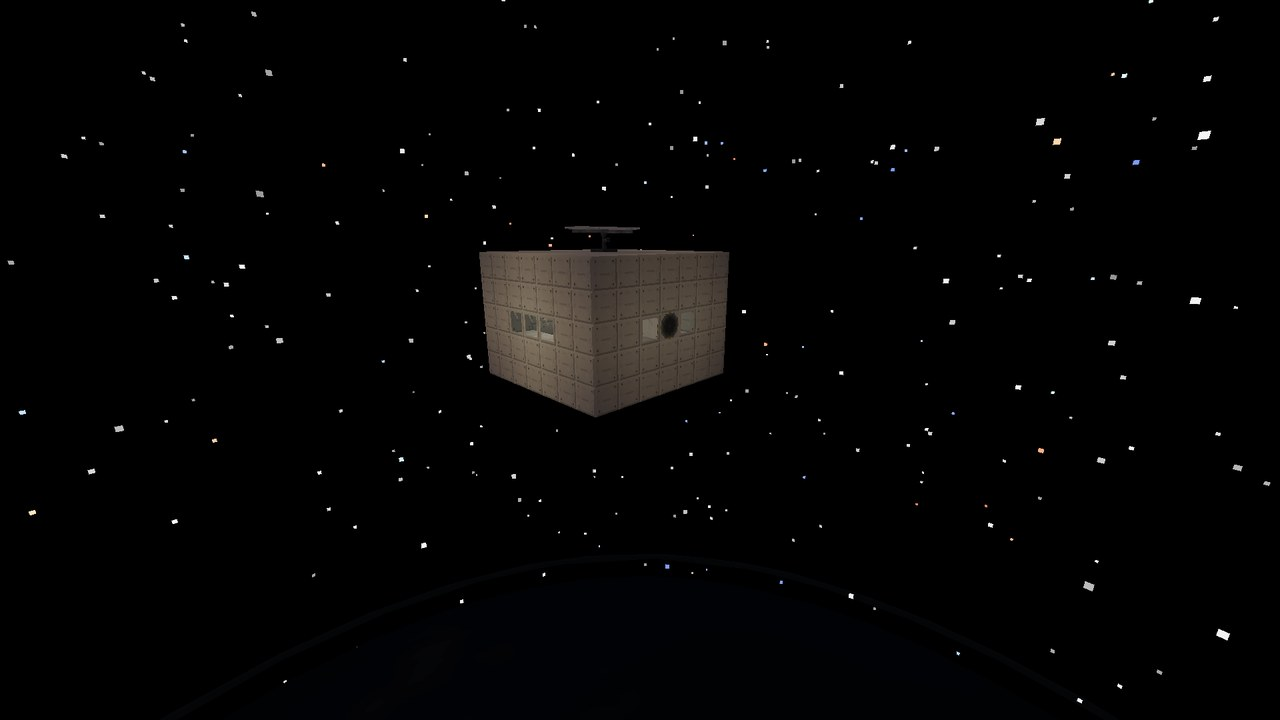
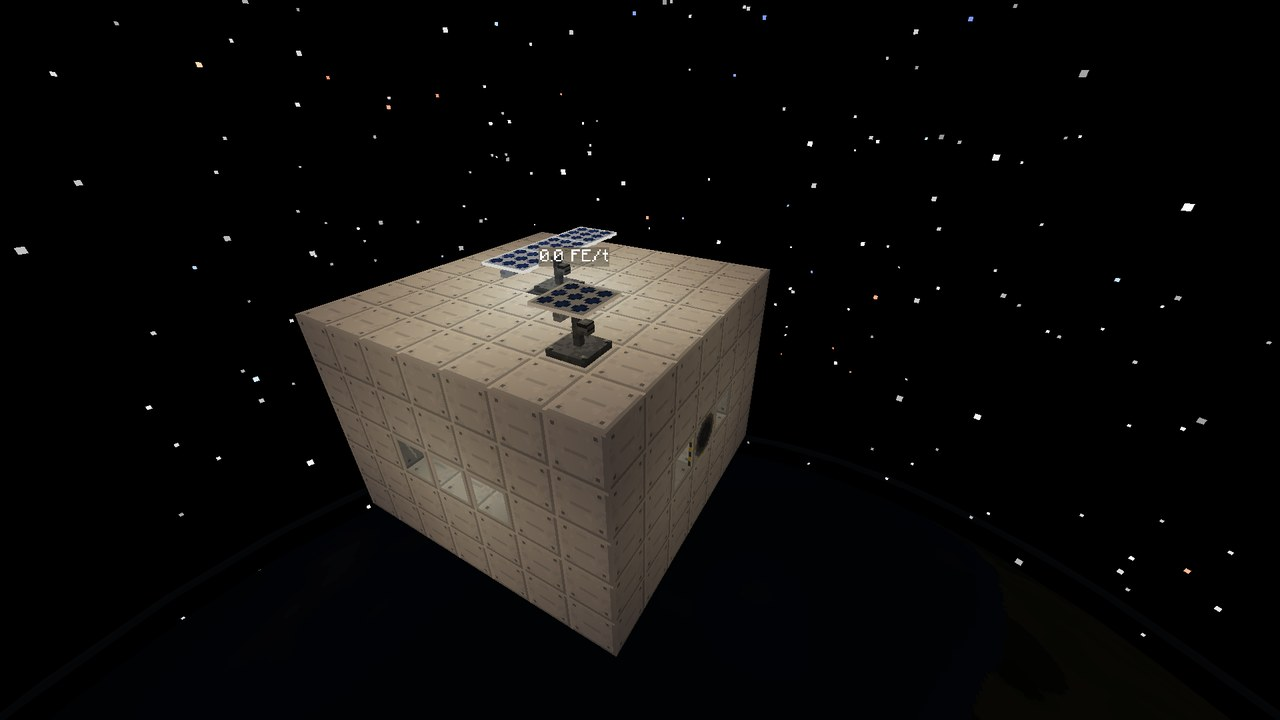
Rocketry: one orbit sunlight modifier for the shadow, habitat roof battery and cable, steadier docking test
- Orbit shadow reaches every solar panel through a single Environment sunlight modifier (QA-16)
- Habitat kit: battery bank in the roof under the solar array, a copper cable end hanging from the ceiling into the room; pressurised cabin shown on the suit HUD
- Docking test lowers the rocket onto an upward port in its own force-loaded chunk
- Showcase: orbit night and day shots with a solar panel showing 0 and 20 FE/t

diff --git a/src/testmod/java/com/pizzaparker07/spacebreaker/testmod/rocketry/RocketryGameTests.java b/src/testmod/java/com/pizzaparker07/spacebreaker/testmod/rocketry/RocketryGameTests.java
@@ -844,6 +844,10 @@ public final class RocketryGameTests {
                 .is(RocketryModule.STATION_BUNK.get()), "a bunk inside");
         helper.assertTrue(level.getBlockState(centre.above(com.pizzaparker07.spacebreaker.content.rocketry.station.HabitatKitItem.HEIGHT))
                 .is(com.pizzaparker07.spacebreaker.content.machines.MachinesModule.SOLAR_ARRAY.get()), "a solar array on the roof");
+        helper.assertTrue(level.getBlockState(com.pizzaparker07.spacebreaker.content.rocketry.station.HabitatKitItem.battery(centre))
+                .is(com.pizzaparker07.spacebreaker.content.machines.MachinesModule.BATTERY_BANK.block().get()), "a battery bank under the array, for the night");
+        helper.assertTrue(level.getBlockState(com.pizzaparker07.spacebreaker.content.rocketry.station.HabitatKitItem.battery(centre).below())
+                .is(com.pizzaparker07.spacebreaker.content.machines.MachinesModule.COPPER_CABLE.get()), "a cable end under the battery");
         // the distributor finds a closed room: hull, windows, port and the shut airlock keep the air in
         helper.succeedWhen(() -> {
             var be = (com.pizzaparker07.spacebreaker.content.suit.block.OxygenDistributorBlockEntity) level.getBlockEntity(dist);
@@ -900,35 +904,49 @@ public final class RocketryGameTests {
     }
 
     // own batch: the rocket flies in from outside its port, and a neighbouring test clearing its area must not catch it
-    @GameTest(template = EMPTY, timeoutTicks = 300, batch = "rocketry_docking")
+    @GameTest(template = EMPTY, timeoutTicks = 600, batch = "rocketry_docking")
     public static void dockingApproach(GameTestHelper helper) {
         var level = helper.getLevel();
-        BlockPos port = helper.absolutePos(new BlockPos(1, 30, 2));
+        // a sideways port puts the capsule level with the hatch
+        BlockPos side = helper.absolutePos(new BlockPos(1, 30, 2));
+        net.minecraft.world.phys.Vec3 beside = RocketEntity.dockPoint(side, Direction.EAST, 20, 1.5);
+        helper.assertTrue(beside.y + 20 > side.getY() && beside.y < side.getY() && beside.x > side.getX() + 1, "beside the hatch, capsule level with it");
+        // the approach itself onto an upward port, flying straight down its column (stays in the test's chunk)
+        BlockPos port = helper.absolutePos(new BlockPos(2, 1, 2));
         level.setBlock(port, RocketryModule.DOCKING_PORT.get().defaultBlockState()
-                .setValue(com.pizzaparker07.spacebreaker.content.rocketry.station.DockingPortBlock.FACING, Direction.EAST), 3);
+                .setValue(com.pizzaparker07.spacebreaker.content.rocketry.station.DockingPortBlock.FACING, Direction.UP), 3);
         var ports = com.pizzaparker07.spacebreaker.content.rocketry.station.DockingPorts.get(level);
-        helper.assertTrue(ports.nearest(port.getCenter(), p -> true).filter(p -> p.pos().equals(port) && p.facing() == Direction.EAST).isPresent(),
+        helper.assertTrue(ports.nearest(port.getCenter(), p -> true).filter(p -> p.pos().equals(port) && p.facing() == Direction.UP).isPresent(),
                 "the port registers itself for arriving rockets");
-        RocketEntity rocket = RocketEntity.create(level, RocketryModule.MOON_ROCKET, port.getCenter(), 0F);
+        // keep the chunk ticking and let the rocket settle in before the approach starts
+        net.minecraft.world.level.ChunkPos chunk = new net.minecraft.world.level.ChunkPos(port);
+        level.setChunkForced(chunk.x, chunk.z, true);
+        RocketEntity rocket = RocketEntity.create(level, RocketryModule.MOON_ROCKET, port.getCenter().add(0, 1, 0), 0F);
         level.addFreshEntity(rocket);
         rocket.stageScene(FlightState.ORBIT, 0, 0, false);
-        rocket.approachPort(port, Direction.EAST, 6);
-        net.minecraft.world.phys.Vec3 end = RocketEntity.dockPoint(port, Direction.EAST, rocket.getBbHeight(), rocket.getBbWidth());
-        helper.assertTrue(rocket.docking() && !rocket.docked() && !rocket.canDismount(), "still flying in: nobody steps out");
-        helper.assertTrue(rocket.position().distanceTo(end) > 5.9, "starts out from the port");
-        helper.assertTrue(end.y + rocket.getBbHeight() > port.getY() && end.y < port.getY(), "the capsule ends up level with the hatch");
-        double[] last = {rocket.position().distanceTo(end)};
+        net.minecraft.world.phys.Vec3 end = RocketEntity.dockPoint(port, Direction.UP, rocket.getBbHeight(), rocket.getBbWidth());
+        int[] ticks = {0};
+        double[] last = {Double.MAX_VALUE};
         helper.onEachTick(() -> {
-            double d = rocket.position().distanceTo(end);
-            helper.assertTrue(d <= last[0] + 1e-6, "always closing in");
-            last[0] = d;
+            if (++ticks[0] == 10) {
+                rocket.approachPort(port, Direction.UP, 6);
+                helper.assertTrue(rocket.docking() && !rocket.docked() && !rocket.canDismount(), "still flying in: nobody steps out");
+                helper.assertTrue(rocket.position().distanceTo(end) > 5.9, "starts out from the port");
+            }
+            if (ticks[0] > 10) {
+                double d = rocket.position().distanceTo(end);
+                helper.assertTrue(d <= last[0] + 1e-6, "always closing in");
+                last[0] = d;
+            }
         });
         helper.succeedWhen(() -> {
-            helper.assertFalse(rocket.docking(), "approach finished");
+            helper.assertTrue(ticks[0] > 10, "waiting for the rocket to settle");
+            helper.assertFalse(rocket.docking(), "approach finished: " + rocket.position().distanceTo(end));
             helper.assertTrue(rocket.position().distanceTo(end) < 0.01 && rocket.docked() && rocket.canDismount(), "latched on");
             level.removeBlock(port, false);
             helper.assertTrue(ports.nearest(port.getCenter(), p -> p.pos().equals(port)).isEmpty(), "a broken port leaves the list");
             rocket.discard();
+            level.setChunkForced(chunk.x, chunk.z, false);
         });
     }
 
@@ -1007,6 +1025,7 @@ public final class RocketryGameTests {
             BlockPos eyes = BlockPos.containing(crew.getEyePosition());
             helper.assertTrue(RocketEntity.cabinAir(level, eyes), "seated in the capsule, the crew breathes cabin air (no suit)");
             helper.assertTrue(com.pizzaparker07.spacebreaker.core.env.Environment.canBreathe(level, eyes), "the environment knows it");
+            helper.assertTrue(com.pizzaparker07.spacebreaker.content.suit.SuitEvents.pressurisedAt(crew), "the suit HUD sees a pressurised cabin");
             rocket.ejectPassengers();
             crew.moveTo(rocket.position().add(4, 0, 0));
             helper.runAfterDelay(1, () -> {

diff --git a/src/testmod/java/com/pizzaparker07/spacebreaker/testmod/showcase/RocketryScenario.java b/src/testmod/java/com/pizzaparker07/spacebreaker/testmod/showcase/RocketryScenario.java
@@ -137,6 +137,73 @@ final class RocketryScenario implements ShowcaseScenario {
         RocketryShowcaseClient.openMapWhenRiding = true;
     }
 
+    /**
+     * A habitat module with a solar panel on its roof, on the night or the day side of the orbit. After the panel
+     * has run a while its output is written to the log and shown over it, so the shadow can be checked without the
+     * picture.
+     */
+    private static void orbitPanelShot(ServerPlayer p, boolean night) {
+        clearScene(p);
+        ServerLevel orbit = p.server.getLevel(Location.EARTH_ORBIT.dimension());
+        BlockPos c = BlockPos.containing(night ? 200 : 260, RocketEntity.ORBIT_Y, 0);
+        net.minecraft.core.Direction east = net.minecraft.core.Direction.EAST;
+        com.pizzaparker07.spacebreaker.content.rocketry.station.HabitatKitItem.unfold(orbit, c, east);
+        orbit.setBlock(c.above(3), net.minecraft.world.level.block.Blocks.SEA_LANTERN.defaultBlockState(), 3);
+        BlockPos panel = c.offset(2, com.pizzaparker07.spacebreaker.content.rocketry.station.HabitatKitItem.HEIGHT, 2);
+        orbit.setBlock(panel, com.pizzaparker07.spacebreaker.content.machines.MachinesModule.SOLAR_PANEL.get().defaultBlockState(), 3);
+        // move the clock to the far side of the orbit (Earth's shadow) or to orbital noon
+        long now = p.server.overworld().getGameTime();
+        long orbitTicks = (long) com.pizzaparker07.spacebreaker.content.rocketry.nav.OrbitDaylight.ORBIT_TICKS;
+        long time = (now / orbitTicks + 1) * orbitTicks + (night ? orbitTicks / 2 : 0);
+        if (p.server.overworld().getLevelData() instanceof net.minecraft.world.level.storage.PrimaryLevelData data) {
+            data.setGameTime(time);
+        }
+        toDimension(p, Location.EARTH_ORBIT, c.getX() + 6.5, RocketEntity.ORBIT_Y + 8.5, 7.5, 150F, 30F);
+        later(p.server, 60, () -> {
+            double sun = com.pizzaparker07.spacebreaker.core.env.Environment.solarFactor(orbit, panel);
+            double out = orbit.getBlockEntity(panel) instanceof com.pizzaparker07.spacebreaker.content.machines.SolarPanelBlockEntity be ? be.getExactOutput() : -1;
+            Spacebreaker.LOGGER.info("[showcase] orbit {}: sunlit {} solarFactor {} panel {} FE/t", night ? "night" : "day",
+                    String.format(java.util.Locale.ROOT, "%.3f", com.pizzaparker07.spacebreaker.content.rocketry.nav.OrbitDaylight.sunlit(orbit, panel)),
+                    String.format(java.util.Locale.ROOT, "%.3f", sun), String.format(java.util.Locale.ROOT, "%.2f", out));
+            var label = net.minecraft.world.entity.EntityType.TEXT_DISPLAY.create(orbit);
+            if (label != null) {
+                label.moveTo(panel.getX() + 0.5, panel.getY() + 1.4, panel.getZ() + 0.5);
+                var tag = label.saveWithoutId(new net.minecraft.nbt.CompoundTag());
+                tag.putString("text", net.minecraft.network.chat.Component.Serializer.toJson(
+                        net.minecraft.network.chat.Component.literal(String.format(java.util.Locale.ROOT, "%.1f FE/t", out)), orbit.registryAccess()));
+                tag.putString("billboard", "center");
+                var bright = new net.minecraft.nbt.CompoundTag();
+                bright.putInt("sky", 15);
+                bright.putInt("block", 15);
+                tag.put("brightness", bright);
+                label.load(tag);
+                orbit.addFreshEntity(label);
+            }
+        });
+    }
+
+    private static final java.util.List<long[]> LATER_AT = new java.util.ArrayList<>();
+    private static final java.util.List<Runnable> LATER = new java.util.ArrayList<>();
+    private static boolean laterHooked;
+
+    /** Runs a server task this many ticks from now. */
+    private static void later(net.minecraft.server.MinecraftServer server, int ticks, Runnable task) {
+        if (!laterHooked) {
+            laterHooked = true;
+            net.neoforged.neoforge.common.NeoForge.EVENT_BUS.addListener((net.neoforged.neoforge.event.tick.ServerTickEvent.Post e) -> {
+                for (int i = LATER.size() - 1; i >= 0; i--) {
+                    if (e.getServer().getTickCount() >= LATER_AT.get(i)[0]) {
+                        Runnable r = LATER.remove(i);
+                        LATER_AT.remove(i);
+                        r.run();
+                    }
+                }
+            });
+        }
+        LATER_AT.add(new long[]{server.getTickCount() + ticks});
+        LATER.add(task);
+    }
+
     private static void clearScene(ServerPlayer player) {
         player.stopRiding();
         for (RocketEntity r : scene) {
@@ -404,23 +471,8 @@ final class RocketryScenario implements ShowcaseScenario {
                             com.pizzaparker07.spacebreaker.content.rocketry.station.HabitatKitItem.port(c, east), "PizzaParker07");
                     mapShot(p, Location.EARTH_ORBIT.body(), true);
                 }, null));
-        s.add(new Shot("37_orbit_night", 6000, 0, 0, 0, 0F, 0F, true, fp, 140,
-                p -> {
-                    clearScene(p);
-                    ServerLevel orbit = p.server.getLevel(Location.EARTH_ORBIT.dimension());
-                    BlockPos c = BlockPos.containing(200, RocketEntity.ORBIT_Y, 0);
-                    net.minecraft.core.Direction east = net.minecraft.core.Direction.EAST;
-                    com.pizzaparker07.spacebreaker.content.rocketry.station.HabitatKitItem.unfold(orbit, c, east);
-                    orbit.setBlock(c.above(3), net.minecraft.world.level.block.Blocks.SEA_LANTERN.defaultBlockState(), 3);
-                    // the far side of the orbit: the station is in Earth's shadow
-                    long now = p.server.overworld().getGameTime();
-                    long orbitTicks = (long) com.pizzaparker07.spacebreaker.content.rocketry.nav.OrbitDaylight.ORBIT_TICKS;
-                    long night = (now / orbitTicks + 1) * orbitTicks + orbitTicks / 2;
-                    if (p.server.overworld().getLevelData() instanceof net.minecraft.world.level.storage.PrimaryLevelData data) {
-                        data.setGameTime(night);
-                    }
-                    toDimension(p, Location.EARTH_ORBIT, 214.5, RocketEntity.ORBIT_Y + 5.5, 12.5, 135F, 15F);
-                }, null));
+        s.add(new Shot("37_orbit_night", 6000, 0, 0, 0, 0F, 0F, true, fp, 160, p -> orbitPanelShot(p, true), null));
+        s.add(new Shot("38_orbit_day", 6000, 0, 0, 0, 0F, 0F, true, fp, 160, p -> orbitPanelShot(p, false), null));
         s.add(new Shot("31_nearby_stars", 6000, 0, 0, 0, 0F, 0F, false, fp, 120,
                 p -> {
                     RocketryShowcaseClient.star = "Alpha Centauri";

diff --git a/src/main/java/com/pizzaparker07/spacebreaker/content/rocketry/station/HabitatKitItem.java b/src/main/java/com/pizzaparker07/spacebreaker/content/rocketry/station/HabitatKitItem.java
@@ -25,7 +25,7 @@ import java.util.List;
 /**
  * Habitat module kit: unfolds a sealed 7 × 5 × 7 room of station hull in front of the player, with a band of
  * windows, an airlock door facing the player, a docking port on the far wall, an oxygen distributor and a
- * bunk inside, and a solar array on the roof. Slot an oxygen tank into the distributor (or pipe
+ * bunk inside, and a solar array over a battery bank in the roof. Slot an oxygen tank into the distributor (or pipe
  * oxygen in) and the room fills with air.
  */
 public class HabitatKitItem extends Item {
@@ -49,6 +49,11 @@ public class HabitatKitItem extends Item {
     /** Where the bunk ends up. */
     public static BlockPos bunk(BlockPos centre, Direction forward) {
         return at(centre, forward, -2, 1, 2);
+    }
+
+    /** Where the battery bank ends up: in the middle of the roof, under the solar array. */
+    public static BlockPos battery(BlockPos centre) {
+        return centre.above(HEIGHT - 1);
     }
 
     /** Where the docking port ends up (middle of the far wall). */
@@ -94,8 +99,15 @@ public class HabitatKitItem extends Item {
         level.setBlock(distributor(centre), SuitModule.OXYGEN_DISTRIBUTOR.get().defaultBlockState(), 3);
         level.setBlock(bunk(centre, forward), RocketryModule.STATION_BUNK.get().defaultBlockState()
                 .setValue(HorizontalDirectionalBlock.FACING, forward.getClockWise()), 3);
-        // one solar array on the roof: its wings fold out north and south, over open roof
+        // one solar array on the roof (its wings fold out north and south, over open roof), charging a battery
+        // bank set into the roof below it, so the station keeps its power through the night side of the orbit
+        level.setBlock(battery(centre), MachinesModule.BATTERY_BANK.block().get().defaultBlockState()
+                .setValue(com.pizzaparker07.spacebreaker.content.machines.base.MachineBlock.FACING, forward), 3);
         level.setBlock(centre.above(HEIGHT), MachinesModule.SOLAR_ARRAY.get().defaultBlockState(), 3);
+        // a cable end hanging from the ceiling under the battery: machines in the room plug in there
+        BlockPos cable = battery(centre).below();
+        level.setBlock(cable, net.minecraft.world.level.block.Block.updateFromNeighbourShapes(
+                MachinesModule.COPPER_CABLE.get().defaultBlockState(), level, cable), 3);
         return true;
     }
 

diff --git a/src/main/java/com/pizzaparker07/spacebreaker/content/rocketry/RocketryModule.java b/src/main/java/com/pizzaparker07/spacebreaker/content/rocketry/RocketryModule.java
@@ -225,6 +225,12 @@ public final class RocketryModule implements SbModule {
         NeoForge.EVENT_BUS.addListener(RocketryModule::onMount);
         // the crew capsule is pressurised: seated crew breathe without a suit (in orbit and on the way)
         com.pizzaparker07.spacebreaker.core.env.Environment.addOxygenSource(RocketEntity::cabinAir);
+        // night in orbit: stations pass through their planet's shadow; every Environment.solarFactor user (solar
+        // panels, arrays, rovers) feels it. This is the single source: machines must not multiply by it again.
+        com.pizzaparker07.spacebreaker.core.env.Environment.addSunlightModifier(
+                com.pizzaparker07.spacebreaker.content.rocketry.nav.OrbitDaylight::sunlit);
+        // ...and its HUD shows a pressurised cabin (no visor frost)
+        com.pizzaparker07.spacebreaker.content.suit.SuitEvents.addPressureSource(p -> p.getVehicle() instanceof RocketEntity r && r.hasCabin());
         NeoForge.EVENT_BUS.addListener((net.neoforged.neoforge.event.entity.player.PlayerEvent.PlayerLoggedInEvent e) -> {
             if (e.getEntity() instanceof net.minecraft.server.level.ServerPlayer sp) {
                 var data = com.pizzaparker07.spacebreaker.content.rocketry.mission.SatelliteData.get(sp.server);

diff --git a/src/main/java/com/pizzaparker07/spacebreaker/content/rocketry/RocketryLang.java b/src/main/java/com/pizzaparker07/spacebreaker/content/rocketry/RocketryLang.java
@@ -33,8 +33,8 @@ final class RocketryLang {
         l.item(RocketryModule.HABITAT_KIT, "Habitat Module Kit", "Yaşam Modülü Kiti");
         l.block(RocketryModule.STATION_BUNK, "Station Bunk", "İstasyon Ranzası");
         l.block(RocketryModule.FUEL_DEPOT, "Fuel Depot", "Yakıt Deposu");
-        l.add("tooltip.spacebreaker.habitat_kit", "Use in empty space: unfolds a sealed 7×5×7 room with an airlock, windows, docking port, bunk and a solar array",
-                "Boşlukta kullan: hava kilidi, pencereler, yanaşma portu, ranza ve güneş paneli dizisiyle kapalı 7×5×7 bir oda açar");
+        l.add("tooltip.spacebreaker.habitat_kit", "Use in empty space: unfolds a sealed 7×5×7 room with an airlock, windows, docking port, bunk, a solar array and a battery bank",
+                "Boşlukta kullan: hava kilidi, pencereler, yanaşma portu, ranza, güneş paneli dizisi ve batarya bankasıyla kapalı 7×5×7 bir oda açar");
         l.add("tooltip.spacebreaker.habitat_kit.air", "Put an oxygen tank in the distributor to fill it with air",
                 "Havayla doldurmak için dağıtıcıya bir oksijen tüpü tak");
         l.add("message.spacebreaker.station_bunk.set", "Respawn point set", "Yeniden doğma noktası ayarlandı");

diff --git a/docs/CONTENT.md b/docs/CONTENT.md
@@ -49,7 +49,7 @@ Her içerik paketi gerçek istemcide vitrin dünyasında fotoğraflanır; onayda
 | 🎨 | Roket, yörünge boyutları (Dünya / Ay yörüngesi + diğer cisimler için ortak yörünge), yıldız haritası (gök cismi verisinden: Merkür, Venüs, Mars, Phobos, Deimos ve dış sistem kendiliğinden; Güneş solda, gezegene tıklayınca sistemine yakınlaşır, sağ panelde resim, kısa açıklama, tehlikeler, "Yörüngeye git / Yüzeye in", düz dille yakıt kontrolü, dönüş yakıtı, yolculuk süresi, fırlatma penceresi, adım adım rota; sağ tık ile "Yakın yıldızlar": Güneş'e 25 ışık yılı içindeki yıldızlar, Samanyolu'nda konum, yıldız bilgisi — yıldızlar arası yolculuk henüz yok) | binince roket kamerası (fareyle çevresinde dön, tekerlekle yakınlaş, F5 ile kokpit penceresi), boyut değişiminde yükleme ekranı yerine geçiş animasyonu (gök kararır → yıldızlar, yıldızlar akar → hedef büyür, gezegen yaklaşır → plazma), geri sayım, ateşleme, kademe ayrılması, gökyüzünün kararması, yörüngede dönen gezegen, Ay'a motorlu iniş + toz, atmosfere giriş (plazma), paraşüt, suya iniş |
 | 🎨 | Acil Dönüş İşareti, Yaratıcı Yakıt Kartuşu | mahsur kalmama; test için tam yakıt |
 | 🎨 | İstasyon Gövdesi, İstasyon Penceresi, Yanaşma Portu, İstasyon Kurulum Kiti | yörüngede boşlukta kit 5×5 gövde zemini açar; gövde/pencere/port tam blok → oksijen dağıtıcısıyla basınçlı oda; porta 12 blok yakın yörüngedeki roket "yanaşmış" sayılır: mürettebat inip binebilir, porta borulanan sıvılar roketin tanklarına gider |
-| 🎨 | Yaşam Modülü Kiti, İstasyon Ranzası, Yakıt Deposu | kit boşlukta kapalı 7×5×7 oda açar: pencere bandı, hava kilidi kapısı, uzak duvarda yanaşma portu, içeride oksijen dağıtıcısı + ranza, çatıda güneş paneli dizisi (endüstri); dağıtıcıya oksijen tüpü takınca oda hava dolar. Ranza her dünyada yeniden doğma noktası ayarlar (yatak gerekmez). Yakıt deposu 4 tank (RP-1, LOX, metan, hidrojen; 32.000 mB), borudan/kovayla dolar; FE ile çalışır (40 FE/t, 20.000 FE tampon) ve 8 blok içindeki yanaşma portlarındaki roketlere yakıt pompalar. Yörüngeye varan roket o yörüngedeki en yakın yanaşma portuna kendiliğinden yaklaşır: uzakta hızlı, son metrelerde yavaş, manevra iticisi pufları; kenetlenmede kilit sesi ve kabin sarsıntısı. Yıldız haritasında istasyonu olan gezegenin yanında istasyon simgesi; panelde kuran oyuncu ve yanaşma portu sayısı (yakın portlar tek istasyon sayılır). Yörüngede gündüz/gece: istasyon 10 dakikada bir tur atar, turun yaklaşık üçte birinde gezegenin gölgesinde kalır (astro Eclipses; yarı gölgede yumuşak geçiş); güneş gezegenin arkasına kayarak söner, ışık kararır, gece yüzü karanlık. Sunucu ve istemci aynı oyun saatinden hesaplar (`OrbitDaylight.sunlit(level, pos)` güneş panelleri için) |
+| 🎨 | Yaşam Modülü Kiti, İstasyon Ranzası, Yakıt Deposu | kit boşlukta kapalı 7×5×7 oda açar: pencere bandı, hava kilidi kapısı, uzak duvarda yanaşma portu, içeride oksijen dağıtıcısı + ranza, çatıda güneş paneli dizisi ve altında gece için batarya bankası, tavanda bakır kablo ucu (endüstri); dağıtıcıya oksijen tüpü takınca oda hava dolar. Ranza her dünyada yeniden doğma noktası ayarlar (yatak gerekmez). Yakıt deposu 4 tank (RP-1, LOX, metan, hidrojen; 32.000 mB), borudan/kovayla dolar; FE ile çalışır (40 FE/t, 20.000 FE tampon) ve 8 blok içindeki yanaşma portlarındaki roketlere yakıt pompalar. Yörüngeye varan roket o yörüngedeki en yakın yanaşma portuna kendiliğinden yaklaşır: uzakta hızlı, son metrelerde yavaş, manevra iticisi pufları; kenetlenmede kilit sesi ve kabin sarsıntısı. Yıldız haritasında istasyonu olan gezegenin yanında istasyon simgesi; panelde kuran oyuncu ve yanaşma portu sayısı (yakın portlar tek istasyon sayılır). Yörüngede gündüz/gece: istasyon 10 dakikada bir tur atar, turun yaklaşık üçte birinde gezegenin gölgesinde kalır (astro Eclipses; yarı gölgede yumuşak geçiş); güneş gezegenin arkasına kayarak söner, ışık kararır, gece yüzü karanlık. Sunucu ve istemci aynı oyun saatinden hesaplar (`OrbitDaylight.sunlit(level, pos)` güneş panelleri için) |
 | 🎨 | Mürettebat Kapsülü (3 kişilik) | Ağır Fırlatma teknolojisi; beyaz ısı karoları, üç pencere, tepede yanaşma halkası; üç oyuncu yan yana oturur (çok oyunculu yolculuk); her mürettebat kapsülü basınçlı kabindir: oturan mürettebat yörüngede ve yolculukta giysisiz nefes alır, kapsülden inince kabin havası kalmaz |
 | 🎨 | İletişim Rölesi Uydusu, Gözlem Uydusu, İniş Sondası | insansız roket: kapsül yuvasına takılır, konsoldan "Hedef..." ile yıldız haritasında görev hedefi seçilir ve fırlatılır; yörüngede kendiliğinden hedefe uçar. Uydu hedef yörüngede bırakılır (dünyada kalıcı kayıt, yörüngede dönen model); röle o gezegen sisteminde görev kontrolü sinyalini açar (yoksa "Sinyal yok", kilitlemez), gözlem uydusu dünyayı haritalar ve araştırma verisi gönderir; sonda iner, 2 numune + sonda verisi gönderir (çevrimdışıysa girişte) |
 | 🎨 | EVA Giysisi Mk1: Kask, Gövde, Pantolon, Bot | özel 3B modeller: yuvarlak kask, sarmal füme vizör, altın güneş vizörü (eğil + kullan), parlayan yan lambalar; göğüs kontrol kutusu, yaşam destek sırt çantası + oksijen şişeleri; mavi yatak halkaları; tabanlı botlar. Vakumda −190…+130 °C (Ay gecesi, Vesta dahil); yoğun havada ısı taşınımı aralığı daraltır. Yalnızca dört parça birlikte sızdırmaz |
